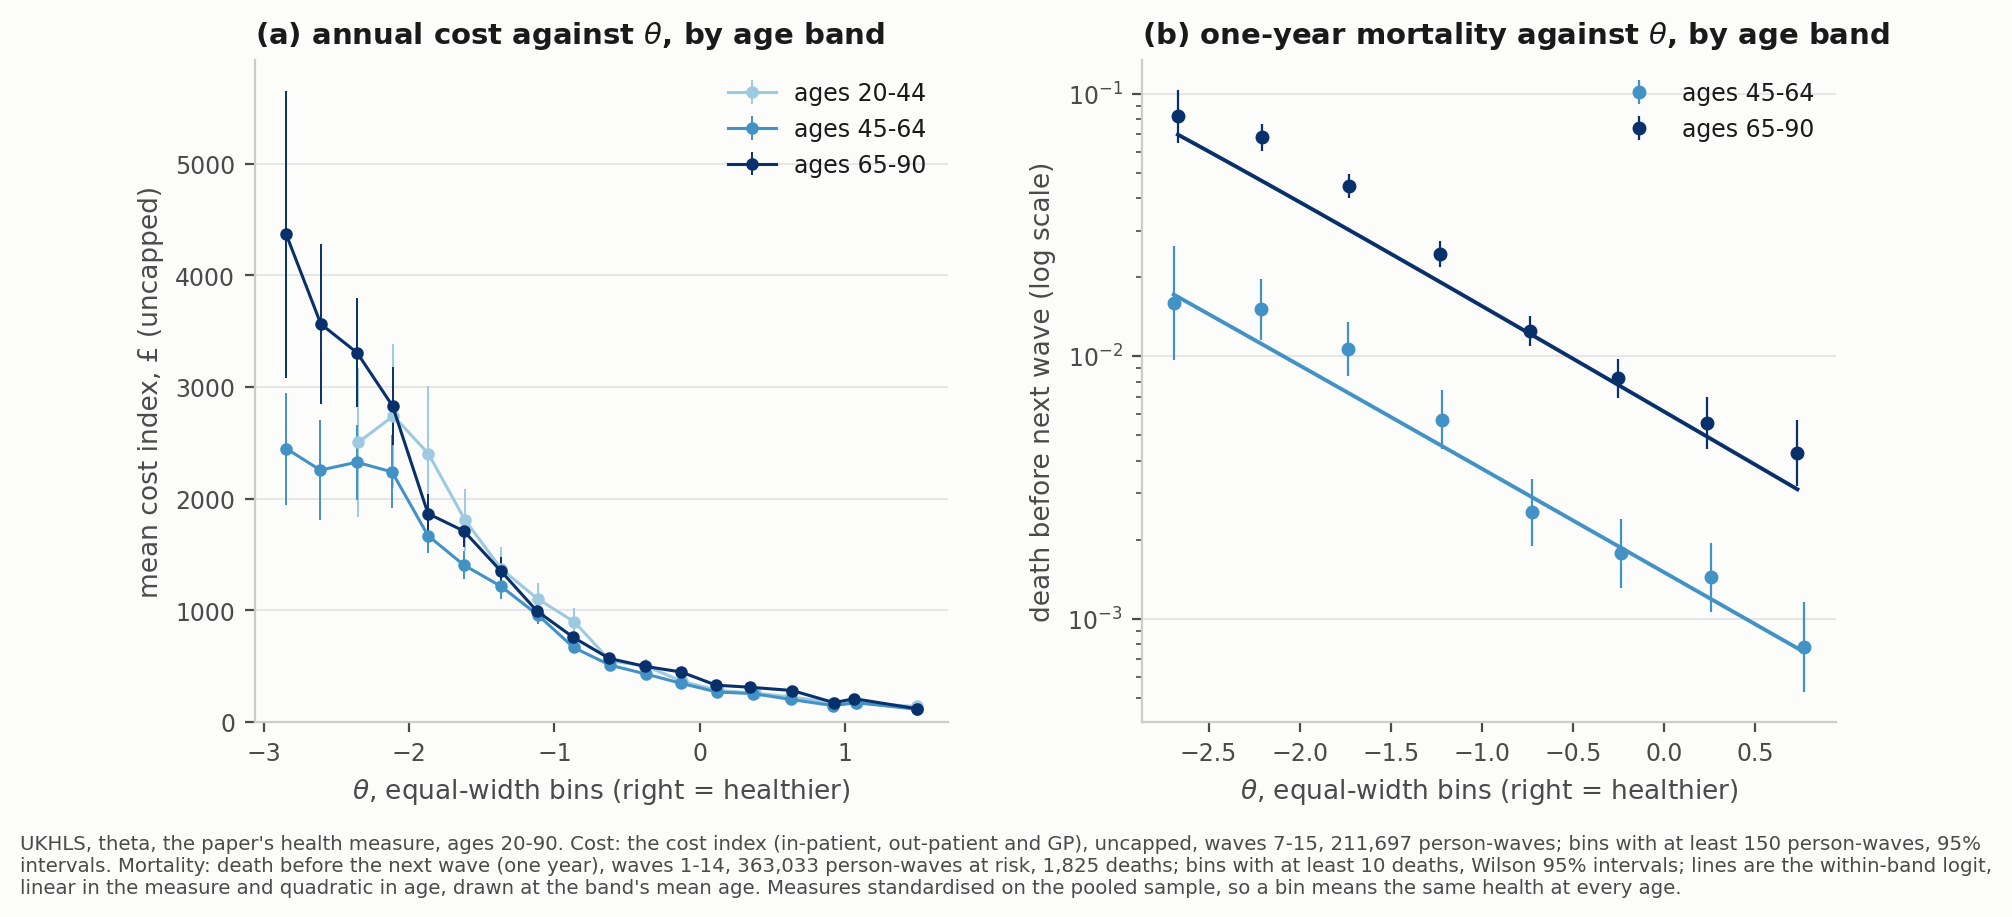
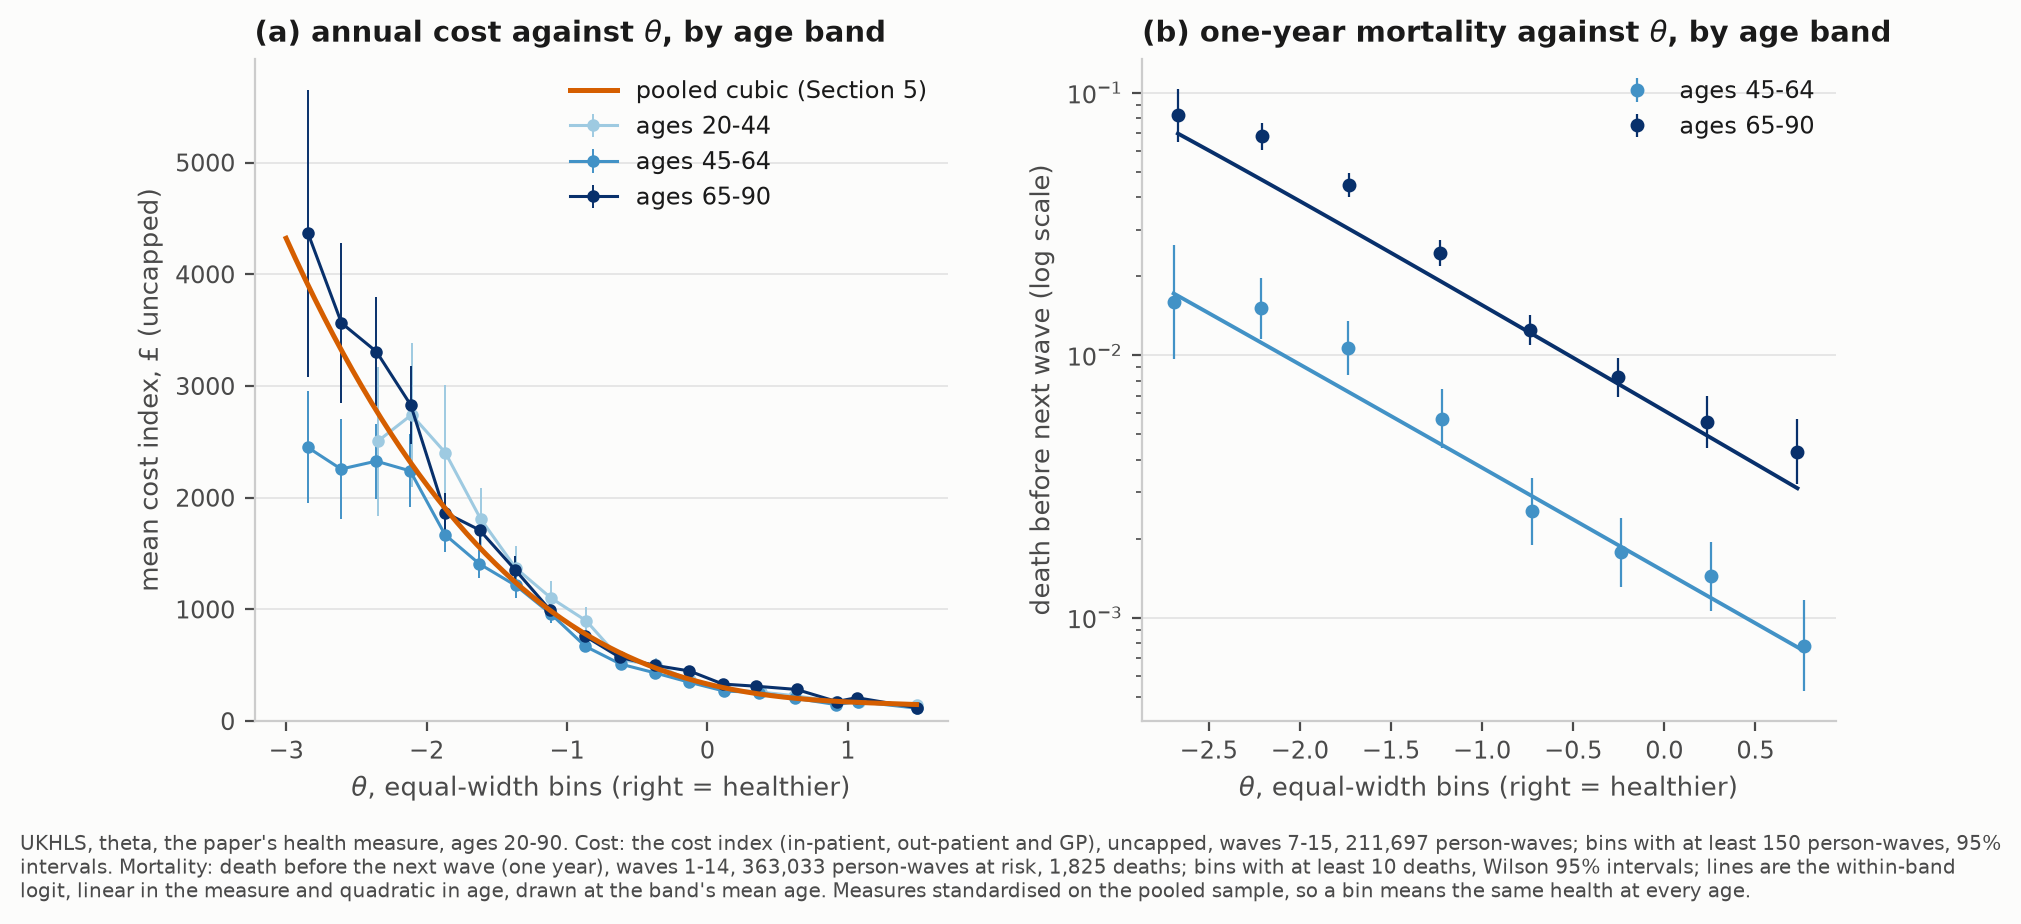
Figure 1: pooled cubic cost curve in panel (a), from theta = -3
Claude-Session: https://claude.ai/code/session_01KuSybU76X361Nwk54WX1KB

diff --git a/descriptives/37_paper_cost_mortality_age.py b/descriptives/37_paper_cost_mortality_age.py
@@ -40,6 +40,7 @@ Outputs: paper/figures/fig_cost_mortality_age.png (theta), fig_cost_mortality_ag
 
 from __future__ import annotations
 
+import importlib
 import sys
 from pathlib import Path
 
@@ -181,6 +182,12 @@ def main() -> int:
                 mort_ax[j].plot(xs, 1 / (1 + np.exp(-(b[0] + b[1] * (xs - mu) / sd + b[2] * am + b[3] * am ** 2))), color=col, lw=1.4)
             rows += [{"panel": "mortality", "variant": v, "band": name, "x": x, "rate": r, "deaths": k, "n": n_}
                      for x, r, k, n_ in zip(g["x"], rate, g["k"], g["n"])]
+        # the pooled cost curve Section 5 prices with (31's fit_cost_curve, as 42), drawn over the binned range only
+        sv = c[c[v].notna()]
+        coef, _, deg = importlib.import_module("31_paper_appendix_extras").fit_cost_curve(sv[v].to_numpy(float), sv["cost"].to_numpy(float))
+        xs = np.linspace(max(EDGES_COST[v][0], sv[v].min()), min(EDGES_COST[v][-1], sv[v].max()), 200)
+        cost_ax[j].plot(xs, np.polynomial.polynomial.polyval(xs, coef), color=VERM, lw=1.8, zorder=5,
+                        label=f"pooled {'cubic' if deg == 3 else 'quadratic'} (Section 5)")
         cost_ax[j].set_title(f"({cost_let[j]}) annual cost against {LAB[v]}, by age band", loc="left")
         cost_ax[j].set_ylabel(f"mean {cost_lab}".replace("uncapped", "capped at p99" if cap_ab else "uncapped"))
         cost_ax[j].set_ylim(bottom=0)
